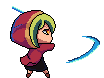
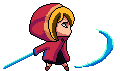
заменены спрайты игрока

diff --git a/code_start/player.py b/code_start/player.py
@@ -23,9 +23,9 @@ class Player(pygame.sprite.Sprite):
         # Движения
         self.direction = vector() # Вектор направления движения
         self.speed = 500 # Скорость передвижения
-        self.gravity = 4900 #Гравитация
+        self.gravity = 3000 #Гравитация
         self.jump = False # Флаг для прыжка
-        self.jump_height = 1500 # Сила прыжка
+        self.jump_height = 1700 # Сила прыжка
         self.attacking = False
 
         # Коллизии
